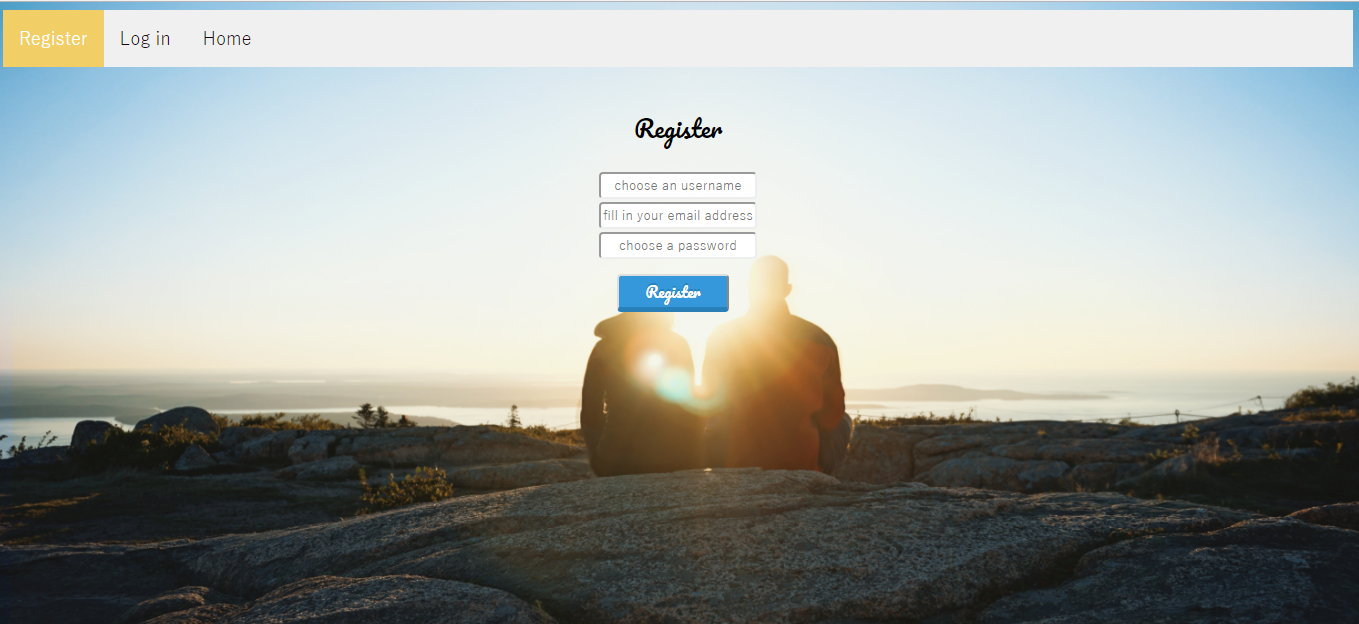
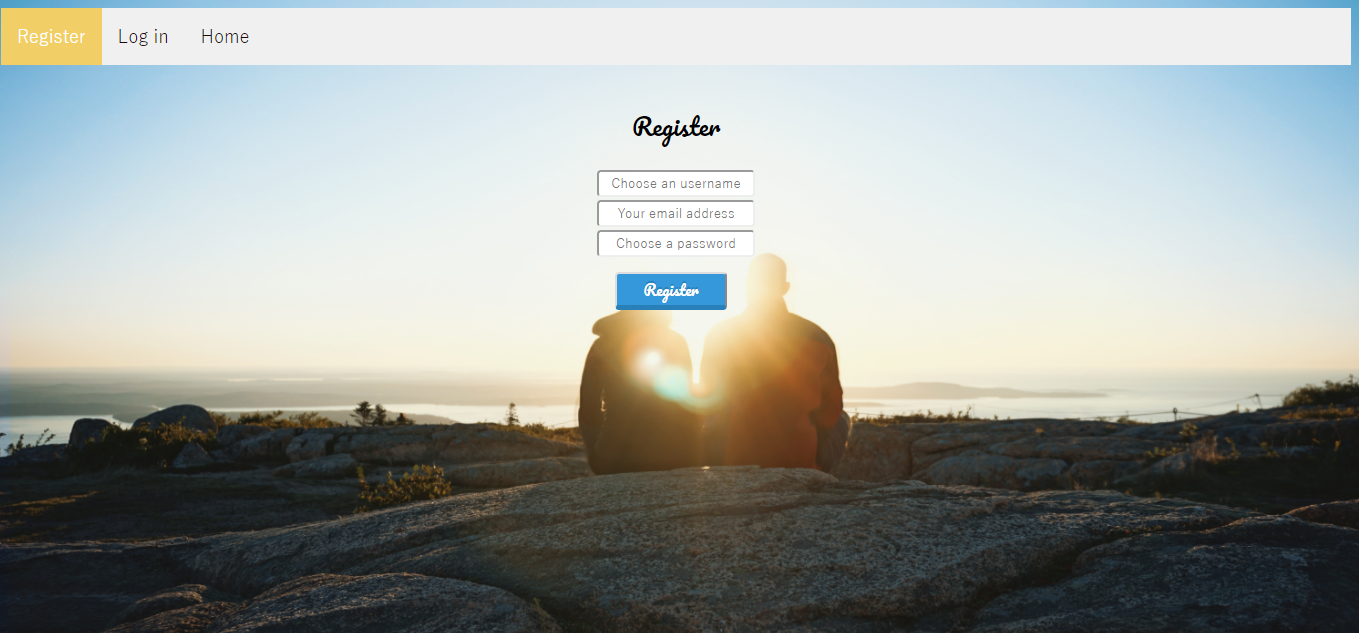
the weight of fonts modified

diff --git a/public/css/allposts.css b/public/css/allposts.css
@@ -7,21 +7,24 @@ body {
 }
 
 
-.alposts, .comments {
-	float: center;
-}
-
-
 h1 {
 	margin-top: 40px;
 	text-align: center;
 	font-family: 'Pacifico', cursive;
-	font-weight: normal;
 	color: white;
+	font-weight: normal;
 }
 
 
-h2, h4 {
+h2 {
+	text-align: left;
+	font-family: 'Pacifico', cursive;
+	font-weight: normal;
+	color: black;
+	margin-left: 55px;
+}
+
+h4 {
 	text-align: left;
 	font-family: 'Pacifico', cursive;
 	font-weight: normal;
@@ -55,7 +58,7 @@ input {
 
 .box {
 	width: 600px;
-	border: 2px solid black;
+	border: 2px solid white;
 	padding: 25px;
 	margin: 25px;
 	margin-left: 300px;
@@ -69,13 +72,6 @@ input {
 	border-bottom: 1px solid rgba(0,0,0,0.2);
 }
 
-/*.box2 {
-	width: 600px;
-	border: 10px solid green;
-	padding: 25px;
-	margin: 25px;
-}
-*/
 
 .action-button {
 	position: relative;

diff --git a/public/css/myposts.css b/public/css/myposts.css
@@ -7,20 +7,18 @@ body {
 }
 
 
-h1 {
-	margin-top: 40px;
+h1, h2, h4, form {
 	text-align: center;
 	font-family: 'Pacifico', cursive;
-	font-weight: normal;
-	color: white;
 }
 
-h2, h4, form {
-	text-align: center;
-	font-family: 'Pacifico', cursive;
-	font-weight: normal;
-	color: black;
+
+h1 {
+	margin-top: 40px;
+	color: white;
+	font-weight: lighter;
 }
+
 
 
 h4 {
@@ -37,11 +35,6 @@ h3 {
 }
 
 
-form {
-	margin-top: 20px;
-}
-
-
 input {
 	text-align: center;
     font-family: 'Yu Gothic'; 
@@ -49,12 +42,12 @@ input {
 }
 
 .box {
-	width: 600px;
-	border: 2px solid black;
-	padding: 25px;
-	margin-left: 300px;
+    width: 600px;
+    border: 2px solid white;
+    padding: 25px;
+    margin: 100px;
+    margin-left: 300px;
 }
-
 
 .action-button{
 	position: relative;

diff --git a/public/css/posts.css b/public/css/posts.css
@@ -7,14 +7,14 @@ body {
 }
 
 
-h2, h4, form {
+h1, h2, h4, form {
 	text-align: center;
 	font-family: 'Pacifico', cursive;
 	font-weight: normal;
 }
 
 
-h2 {
+h1 {
 	margin-top: 40px;
 	color: white;
 }
